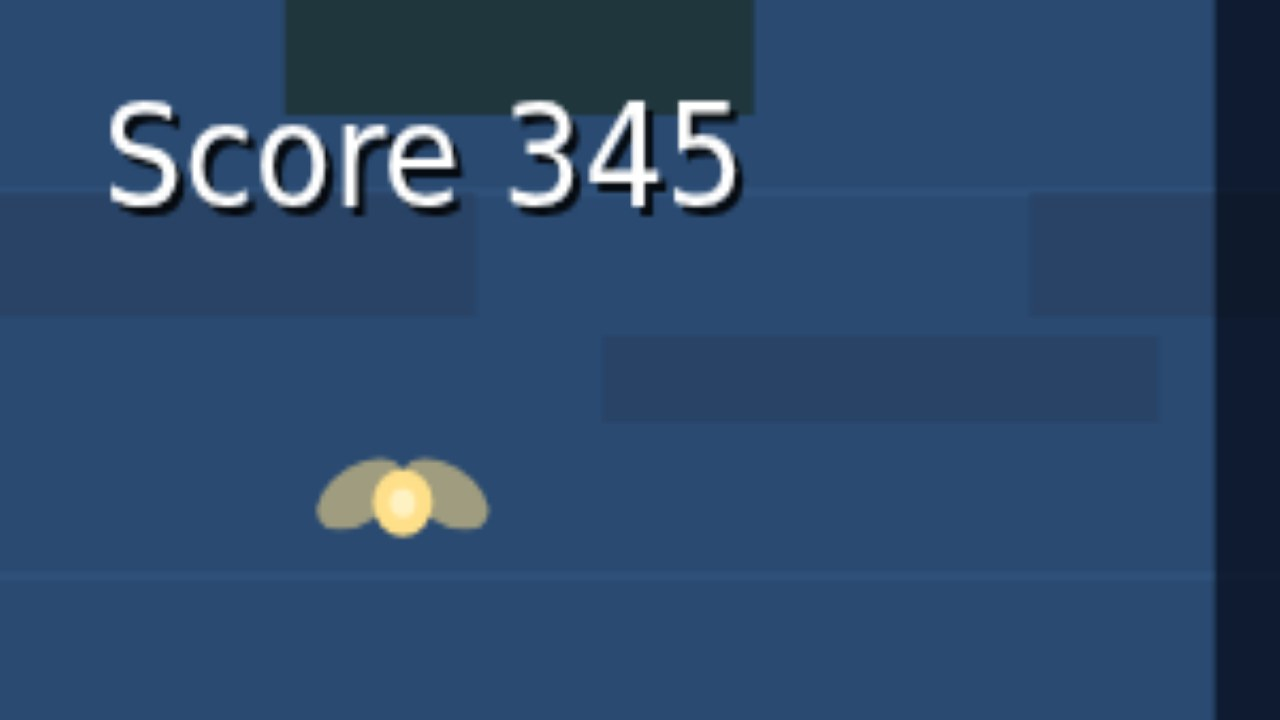
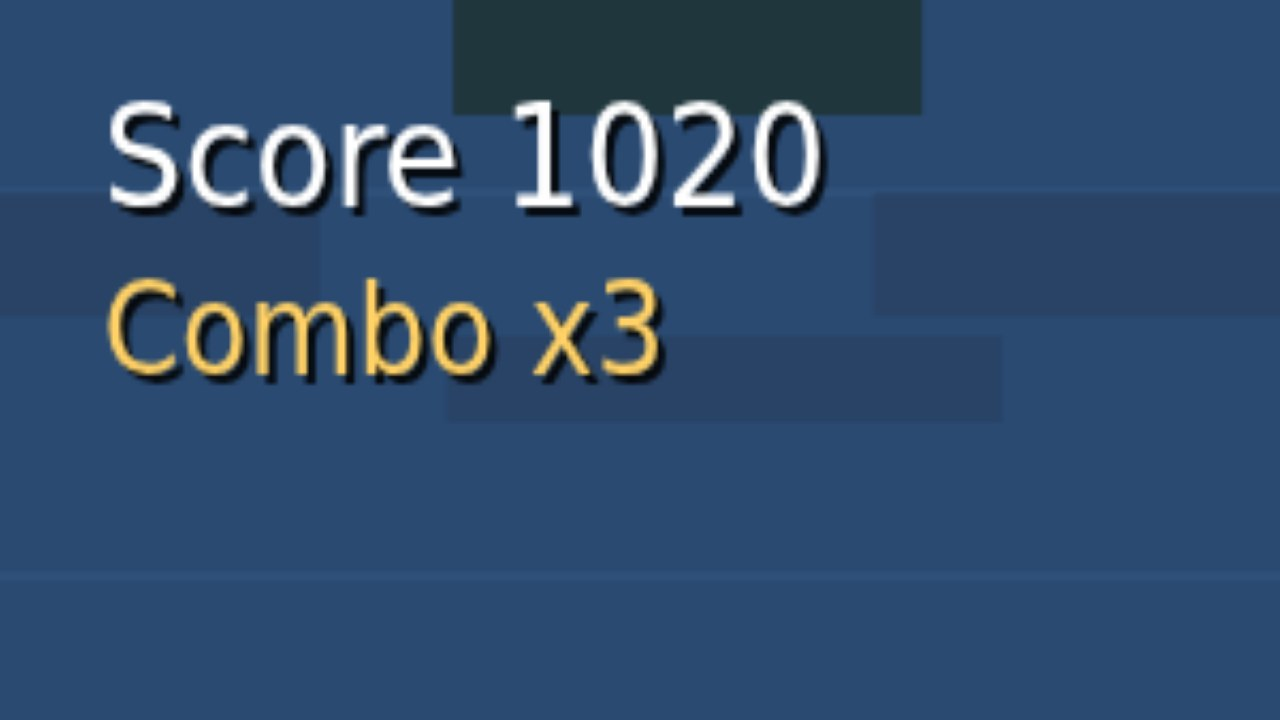
v4: bright readable palette, combo streaks, ember flare power-up, particles, parallax, screen shake, centering drift, audio expansion

diff --git a/game/src/config.js b/game/src/config.js
@@ -13,20 +13,20 @@ export const SPAWN_AHEAD = 420;
 export const FONT = '"Trebuchet MS", "Segoe UI", system-ui, sans-serif';
 export const BARGE = { width: 52, height: 34, steer: 320, drift: 26, maxLean: 1.4 };
 
-export const EMBER = { max: 100, startLight: 72, drain: 2.6, drainInDark: 11 };
+export const EMBER = { max: 100, startLight: 80, drain: 1.8, drainInDark: 6.5 };
 
 export const ROCK = {
   minRadius: 26, maxRadius: 62,
   speed: 130, speedPerDepth: 55,
   interval: 1.5, intervalScale: 0.93, minInterval: 0.55,
-  crackLight: 14,
+  crackLight: 10,
 };
 
-export const MOTH = { radius: 12, light: 13, speed: 95, interval: 2.1, intervalJitter: 1.7 };
+export const MOTH = { radius: 12, light: 13, speed: 95, interval: 1.6, intervalJitter: 1.4 };
 
 export const POOL = { minWidth: 150, maxWidth: 320, speed: 150, interval: 6.5, intervalJitter: 5 };
 
-export const REED = { stalkWidth: 26, gapMin: 150, gapMax: 240, speed: 150, interval: 5.5, intervalScale: 0.94, minInterval: 2.6 };
+export const REED = { stalkWidth: 26, gapMin: 180, gapMax: 280, speed: 150, interval: 5.5, intervalScale: 0.94, minInterval: 2.6 };
 
 export const FLARE = { interval: 9, intervalJitter: 6, burnSeconds: 6 };
 

diff --git a/game/src/world.js b/game/src/world.js
@@ -203,9 +203,12 @@ export function createWorld(random) {
     state.distance += pace * dt;
     state.score += Math.round(pace * dt * SCORE.distance * 0.01);
 
-    // Steering: thrust against a drift the current and the lean both widen.
+    // Steering: a gentle pull toward the canal's middle (the current centres the barge),
+    // widened by leaning — so a passive player drifts to safety, not into the far bank.
+    const mid = (FIELD.height - barge.height) / 2;
     const drift = BARGE.drift * (1 + Math.abs(lean) * BARGE.maxLean);
-    barge.y += drift * dt * (steer === 0 ? 1 : 0.35);
+    const toward = mid > barge.y ? 1 : -1;
+    barge.y += drift * dt * toward * (steer === 0 ? 1 : 0.35);
     barge.y += steer * BARGE.steer * dt * 1.6;
     barge.y = Math.min(FIELD.height - barge.height - 8, Math.max(8, barge.y));
     barge.lean = lean;
